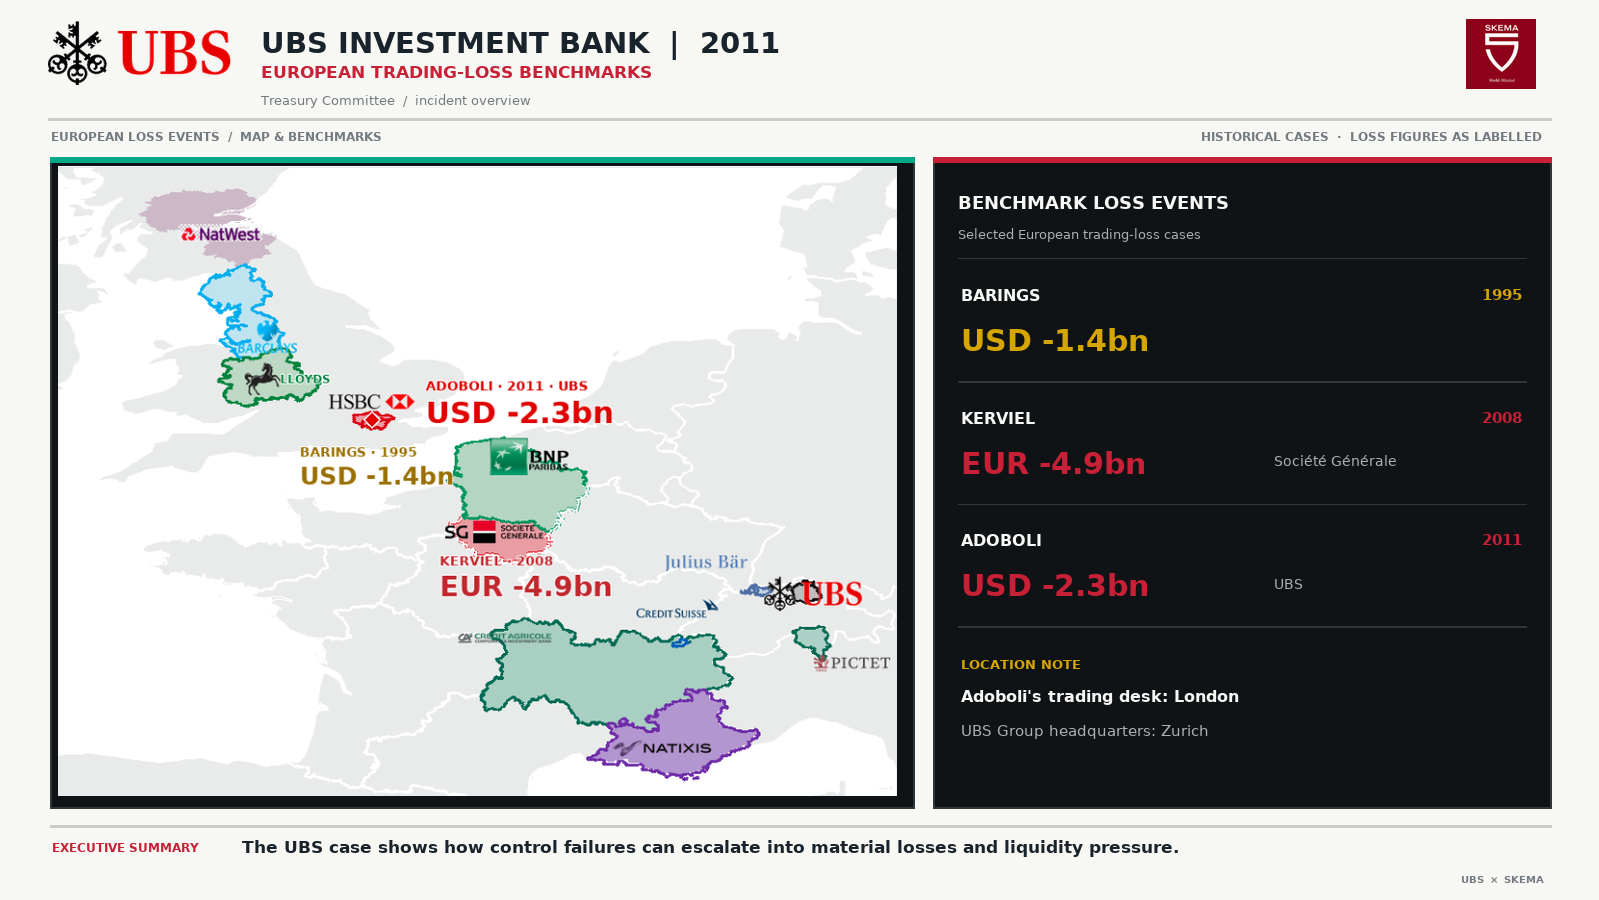
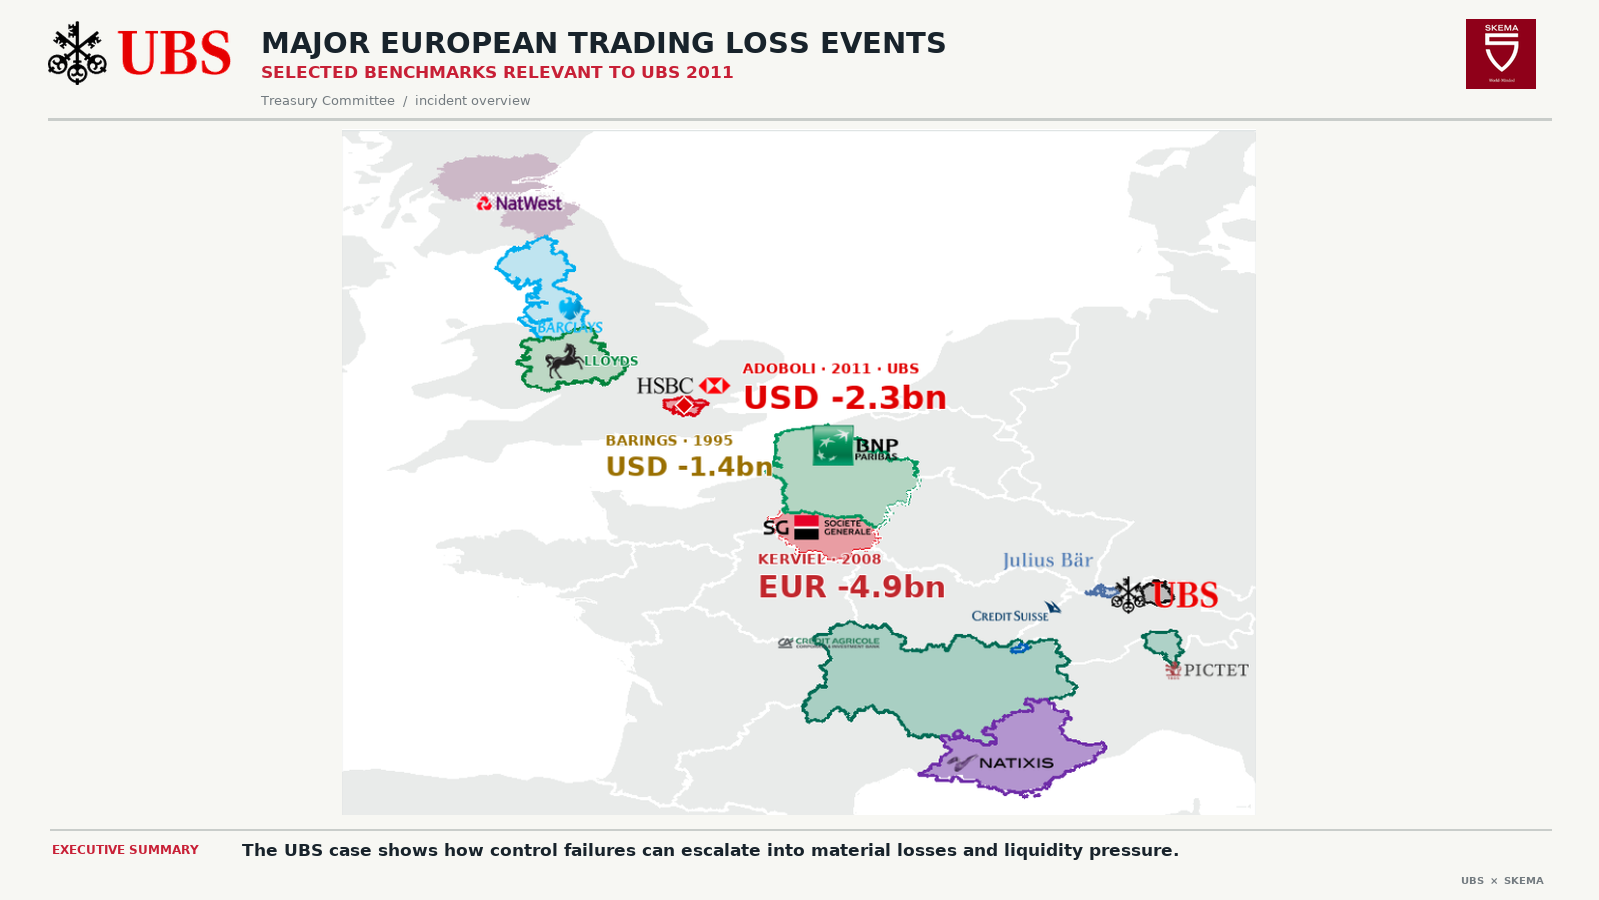
Simplify event map slide to map and summary

diff --git a/documents/build_ubs_event_map_slide.py b/documents/build_ubs_event_map_slide.py
@@ -16,18 +16,11 @@ SKEMA_LOGO = ASSETS / "skema-logo.png"
 PPTX_OUT = ROOT / "ubs-event-map-slide.pptx"
 PNG_OUT = ROOT / "ubs-event-map-slide-preview.png"
 
-# Palette sampled to echo the user's approved UBS / SKEMA risk-slide style.
 BG = "F7F7F3"
 NAVY = "18232B"
 MUTED = "737B80"
-TEAL = "00A985"
 RED = "C82036"
-GOLD = "D6A600"
-PANEL = "101315"
-PANEL_LINE = "30373B"
-WHITE = "F7F8F6"
-SOFT = "A9B0B2"
-
+TEAL = "00A985"
 SLIDE_W, SLIDE_H = 13.333333, 7.5
 MAP_ASPECT = 867 / 651
 
@@ -58,29 +51,6 @@ def add_text(slide, text, x, y, w, h, size, color, bold=False,
     return box
 
 
-def rect(slide, x, y, w, h, fill, line=None, line_width=0.8):
-    shape = slide.shapes.add_shape(MSO_SHAPE.RECTANGLE,
-                                   Inches(x), Inches(y), Inches(w), Inches(h))
-    shape.fill.solid()
-    shape.fill.fore_color.rgb = rgb(fill)
-    if line:
-        shape.line.color.rgb = rgb(line)
-        shape.line.width = Pt(line_width)
-    else:
-        shape.line.fill.background()
-    return shape
-
-
-def add_benchmark(slide, x, y, w, label, year, amount, color, institution=""):
-    add_text(slide, label, x, y, 2.72, 0.23, 10, WHITE, True)
-    add_text(slide, year, x + w - 0.62, y, 0.55, 0.23, 9, color, True,
-             align=PP_ALIGN.RIGHT)
-    add_text(slide, amount, x, y + 0.28, 2.58, 0.38, 18, color, True)
-    if institution:
-        add_text(slide, institution, x + 2.62, y + 0.34,
-                 w - 2.62, 0.24, 8.5, SOFT, False, align=PP_ALIGN.RIGHT)
-
-
 def prepare_logo():
     """Remove the source logo's white matte so it sits cleanly on the ivory header."""
     logo = Image.open(UBS_LOGO_SOURCE).convert("RGBA")
@@ -92,8 +62,7 @@ def prepare_logo():
             if whiteness >= 248:
                 pixels[x, y] = (r, g, b, 0)
             elif whiteness > 228 and max(r, g, b) - min(r, g, b) < 16:
-                alpha = int(a * (248 - whiteness) / 20)
-                pixels[x, y] = (r, g, b, alpha)
+                pixels[x, y] = (r, g, b, int(a * (248 - whiteness) / 20))
     logo.save(UBS_LOGO)
 
 
@@ -106,73 +75,47 @@ def build_pptx():
     slide.background.fill.solid()
     slide.background.fill.fore_color.rgb = rgb(BG)
 
-    # Brand header mirrors the approved slide while keeping the event map central.
+    # Brand header follows the approved UBS / SKEMA slide style.
     slide.shapes.add_picture(str(UBS_LOGO), Inches(0.40), Inches(0.18),
                              width=Inches(1.53), height=Inches(0.54))
-    add_text(slide, "UBS INVESTMENT BANK  |  2011", 2.18, 0.18,
+    add_text(slide, "MAJOR EUROPEAN TRADING LOSS EVENTS", 2.18, 0.18,
              8.9, 0.31, 17.5, NAVY, True)
-    add_text(slide, "EUROPEAN TRADING-LOSS BENCHMARKS", 2.18, 0.49,
-             8.9, 0.22, 10.5, RED, True)
+    add_text(slide, "SELECTED BENCHMARKS RELEVANT TO UBS 2011",
+             2.18, 0.49, 8.9, 0.22, 10.5, RED, True)
     add_text(slide, "Treasury Committee  /  incident overview",
              2.18, 0.75, 8.9, 0.18, 8.3, MUTED)
     slide.shapes.add_picture(str(SKEMA_LOGO), Inches(12.22), Inches(0.16),
                              width=Inches(0.59), height=Inches(0.59))
-    rect(slide, 0.40, 0.99, 12.53, 0.012, "C9CDCA")
+    rule = slide.shapes.add_shape(MSO_SHAPE.RECTANGLE,
+                                  Inches(0.40), Inches(0.99),
+                                  Inches(12.53), Inches(0.012))
+    rule.fill.solid()
+    rule.fill.fore_color.rgb = rgb("C9CDCA")
+    rule.line.fill.background()
 
-    add_text(slide, "EUROPEAN LOSS EVENTS  /  MAP & BENCHMARKS",
-             0.43, 1.05, 6.1, 0.20, 7.7, MUTED, True)
-    add_text(slide, "HISTORICAL CASES  ·  LOSS FIGURES AS LABELLED",
-             7.60, 1.05, 5.25, 0.20, 7.7, MUTED, True,
-             align=PP_ALIGN.RIGHT)
-
-    # Two dark editorial panels echo the approved three-panel risk overview.
-    panel_y, panel_h = 1.31, 5.43
-    rect(slide, 0.42, panel_y, 7.20, panel_h, PANEL, PANEL_LINE, 0.8)
-    rect(slide, 0.42, panel_y, 7.20, 0.045, TEAL)
-    # Preserve the approved map's native 4:3-ish aspect ratio without cropping.
-    map_h = 5.25
+    # Only the validated map: its Barings, Kerviel and Adoboli benchmarks stay intact.
+    map_h = 5.72
     map_w = map_h * MAP_ASPECT
-    slide.shapes.add_picture(str(MAP), Inches(0.49), Inches(1.39),
+    slide.shapes.add_picture(str(MAP), Inches((SLIDE_W-map_w)/2), Inches(1.08),
                              width=Inches(map_w), height=Inches(map_h))
 
-    panel_x, panel_w = 7.78, 5.15
-    rect(slide, panel_x, panel_y, panel_w, panel_h, PANEL, PANEL_LINE, 0.8)
-    rect(slide, panel_x, panel_y, panel_w, 0.045, RED)
-    add_text(slide, "BENCHMARK LOSS EVENTS", 7.99, 1.56,
-             4.75, 0.25, 11, WHITE, True)
-    add_text(slide, "Selected European trading-loss cases",
-             7.99, 1.86, 4.75, 0.20, 8.2, SOFT)
-    rect(slide, 7.99, 2.15, 4.73, 0.008, PANEL_LINE)
-
-    add_benchmark(slide, 8.01, 2.36, 4.68, "BARINGS", "1995",
-                  "USD -1.4bn", GOLD)
-    rect(slide, 7.99, 3.18, 4.73, 0.008, PANEL_LINE)
-    add_benchmark(slide, 8.01, 3.38, 4.68, "KERVIEL", "2008",
-                  "EUR -4.9bn", RED, "Société Générale")
-    rect(slide, 7.99, 4.20, 4.73, 0.008, PANEL_LINE)
-    add_benchmark(slide, 8.01, 4.40, 4.68, "ADOBOLI", "2011",
-                  "USD -2.3bn", RED, "UBS")
-    rect(slide, 7.99, 5.22, 4.73, 0.008, PANEL_LINE)
-
-    add_text(slide, "LOCATION NOTE", 8.01, 5.43, 4.65, 0.20,
-             8.2, GOLD, True)
-    add_text(slide, "Adoboli's trading desk: London",
-             8.01, 5.70, 4.65, 0.24, 10, WHITE, True)
-    add_text(slide, "UBS Group headquarters: Zurich",
-             8.01, 5.99, 4.65, 0.23, 9, SOFT)
-
-    # A single bottom-line sentence, in the executive-summary position of the reference.
-    rect(slide, 0.42, 6.88, 12.51, 0.012, "C9CDCA")
-    add_text(slide, "EXECUTIVE SUMMARY", 0.44, 6.97, 1.58, 0.18,
+    # One concise executive-summary line at the bottom, as requested.
+    rule = slide.shapes.add_shape(MSO_SHAPE.RECTANGLE,
+                                  Inches(0.42), Inches(6.91),
+                                  Inches(12.51), Inches(0.012))
+    rule.fill.solid()
+    rule.fill.fore_color.rgb = rgb("C9CDCA")
+    rule.line.fill.background()
+    add_text(slide, "EXECUTIVE SUMMARY", 0.44, 6.99, 1.58, 0.18,
              7.6, RED, True)
     add_text(slide,
              "The UBS case shows how control failures can escalate into material losses and liquidity pressure.",
-             2.02, 6.95, 10.75, 0.23, 10.3, NAVY, True)
-    add_text(slide, "UBS  ×  SKEMA", 11.92, 7.26, 0.95, 0.12,
+             2.02, 6.97, 10.75, 0.23, 10.3, NAVY, True)
+    add_text(slide, "UBS  ×  SKEMA", 11.92, 7.27, 0.95, 0.12,
              6.4, MUTED, True, align=PP_ALIGN.RIGHT)
 
-    prs.core_properties.title = "UBS Investment Bank | European Trading-Loss Benchmarks"
-    prs.core_properties.subject = "Approved European trading-loss map with benchmark cases"
+    prs.core_properties.title = "Major European Trading Loss Events"
+    prs.core_properties.subject = "Approved event map with executive-summary line"
     prs.core_properties.author = "SKEMA"
     prs.save(PPTX_OUT)
 
@@ -180,82 +123,47 @@ def build_pptx():
 def build_preview():
     prepare_logo()
     scale = 120
-    canvas = Image.new("RGB", (int(SLIDE_W * scale), int(SLIDE_H * scale)), f"#{BG}")
+    canvas = Image.new("RGB", (int(SLIDE_W*scale), int(SLIDE_H*scale)), f"#{BG}")
     draw = ImageDraw.Draw(canvas)
     regular_path = "/usr/share/fonts/truetype/dejavu/DejaVuSans.ttf"
     bold_path = "/usr/share/fonts/truetype/dejavu/DejaVuSans-Bold.ttf"
 
     def font(size, bold=False):
         return ImageFont.truetype(bold_path if bold else regular_path,
-                                  int(size * scale / 72))
+                                  int(size*scale/72))
 
-    def px(v):
-        return int(v * scale)
+    def px(value):
+        return int(value*scale)
 
-    def text(s, x, y, size, color, bold=False, anchor=None):
-        draw.text((px(x), px(y)), s, font=font(size, bold),
+    def text(value, x, y, size, color, bold=False, anchor=None):
+        draw.text((px(x), px(y)), value, font=font(size, bold),
                   fill=f"#{color}", anchor=anchor)
 
-    def rectangle(x, y, w, h, fill, outline=None, width=1):
-        box = (px(x), px(y), px(x+w), px(y+h))
-        draw.rectangle(box, fill=f"#{fill}",
-                       outline=f"#{outline}" if outline else None, width=width)
-
-    # Header logos and title.
     ubs = Image.open(UBS_LOGO).convert("RGBA")
     ubs = ubs.resize((px(1.53), px(0.54)), Image.Resampling.LANCZOS)
     canvas.paste(ubs, (px(0.40), px(0.18)), ubs)
-    text("UBS INVESTMENT BANK  |  2011", 2.18, 0.22, 17.5, NAVY, True)
-    text("EUROPEAN TRADING-LOSS BENCHMARKS", 2.18, 0.52, 10.5, RED, True)
-    text("Treasury Committee  /  incident overview", 2.18, 0.77, 8.3, MUTED)
+    text("MAJOR EUROPEAN TRADING LOSS EVENTS", 2.18, 0.22,
+         17.5, NAVY, True)
+    text("SELECTED BENCHMARKS RELEVANT TO UBS 2011", 2.18, 0.52,
+         10.5, RED, True)
+    text("Treasury Committee  /  incident overview", 2.18, 0.77,
+         8.3, MUTED)
     skema = Image.open(SKEMA_LOGO).convert("RGBA")
     skema = skema.resize((px(0.59), px(0.59)), Image.Resampling.LANCZOS)
     canvas.paste(skema, (px(12.22), px(0.16)), skema)
-    rectangle(0.40, 0.99, 12.53, 0.012, "C9CDCA")
-    text("EUROPEAN LOSS EVENTS  /  MAP & BENCHMARKS", 0.43, 1.08,
-         7.7, MUTED, True)
-    text("HISTORICAL CASES  ·  LOSS FIGURES AS LABELLED", 12.85, 1.08,
-         7.7, MUTED, True, anchor="ra")
+    draw.rectangle((px(0.40), px(0.99), px(12.93), px(1.002)), fill="#C9CDCA")
 
-    panel_y, panel_h = 1.31, 5.43
-    rectangle(0.42, panel_y, 7.20, panel_h, PANEL, PANEL_LINE, 2)
-    rectangle(0.42, panel_y, 7.20, 0.045, TEAL)
-    map_h = 5.25
+    map_h = 5.72
     map_w = map_h * MAP_ASPECT
     event_map = Image.open(MAP).convert("RGB")
     event_map = event_map.resize((px(map_w), px(map_h)), Image.Resampling.LANCZOS)
-    canvas.paste(event_map, (px(0.49), px(1.39)))
+    canvas.paste(event_map, (px((SLIDE_W-map_w)/2), px(1.08)))
 
-    panel_x, panel_w = 7.78, 5.15
-    rectangle(panel_x, panel_y, panel_w, panel_h, PANEL, PANEL_LINE, 2)
-    rectangle(panel_x, panel_y, panel_w, 0.045, RED)
-    text("BENCHMARK LOSS EVENTS", 7.99, 1.60, 11, WHITE, True)
-    text("Selected European trading-loss cases", 7.99, 1.89, 8.2, SOFT)
-    rectangle(7.99, 2.15, 4.73, 0.008, PANEL_LINE)
-
-    cases = [
-        (2.36, "BARINGS", "1995", "USD -1.4bn", GOLD, ""),
-        (3.38, "KERVIEL", "2008", "EUR -4.9bn", RED, "Société Générale"),
-        (4.40, "ADOBOLI", "2011", "USD -2.3bn", RED, "UBS"),
-    ]
-    for y, label, year, amount, color, org in cases:
-        text(label, 8.01, y+0.03, 10, WHITE, True)
-        text(year, 12.69, y+0.03, 9, color, True, anchor="ra")
-        text(amount, 8.01, y+0.34, 18, color, True)
-        if org:
-            text(org, 10.62, y+0.40, 8.5, SOFT)
-    for y in (3.18, 4.20, 5.22):
-        rectangle(7.99, y, 4.73, 0.008, PANEL_LINE)
-
-    text("LOCATION NOTE", 8.01, 5.47, 8.2, GOLD, True)
-    text("Adoboli's trading desk: London", 8.01, 5.73, 10, WHITE, True)
-    text("UBS Group headquarters: Zurich", 8.01, 6.02, 9, SOFT)
-
-    rectangle(0.42, 6.88, 12.51, 0.012, "C9CDCA")
-    text("EXECUTIVE SUMMARY", 0.44, 7.00, 7.6, RED, True)
+    draw.rectangle((px(0.42), px(6.91), px(12.93), px(6.922)), fill="#C9CDCA")
+    text("EXECUTIVE SUMMARY", 0.44, 7.02, 7.6, RED, True)
     text("The UBS case shows how control failures can escalate into material losses and liquidity pressure.",
-         2.02, 6.98, 10.3, NAVY, True)
-    text("UBS  ×  SKEMA", 12.87, 7.28, 6.4, MUTED, True, anchor="ra")
+         2.02, 7.00, 10.3, NAVY, True)
+    text("UBS  ×  SKEMA", 12.87, 7.29, 6.4, MUTED, True, anchor="ra")
     canvas.save(PNG_OUT, optimize=True)
 
 
